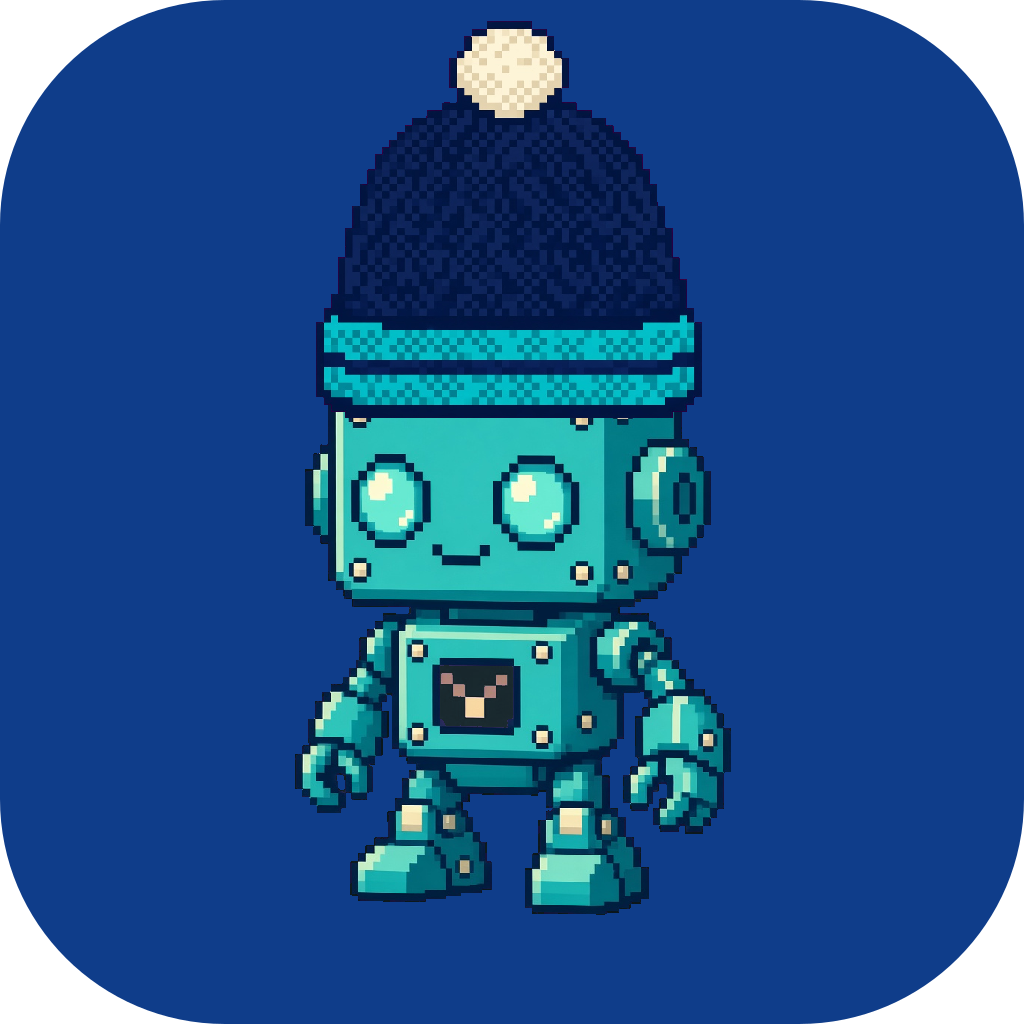
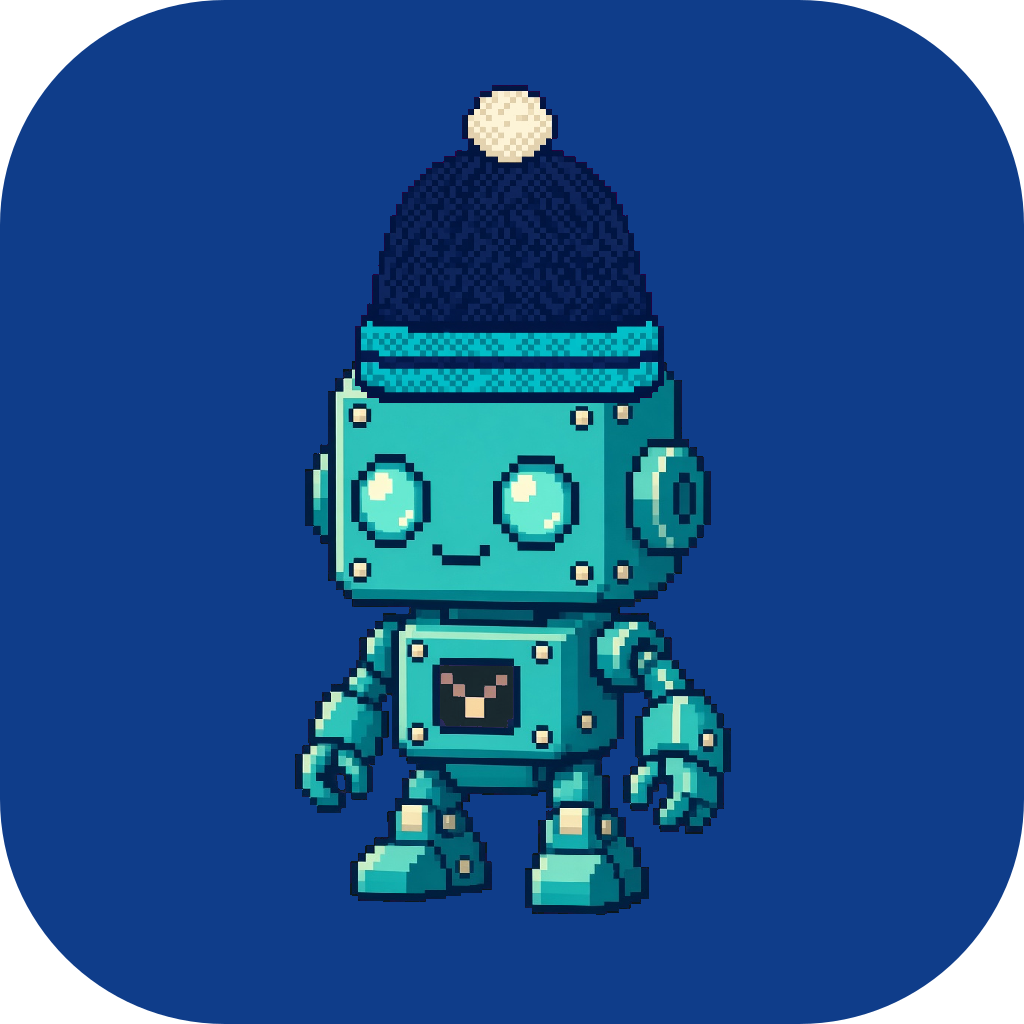
Per-character hat fit: rotate for the squid, scale down for the robot
Anchors accept rotate/scale/overlap overrides. Squid hats lean back 22deg
with the mantle (nearest-neighbour affine, hard edges); robot hats scale to
0.8 and sit deeper so they stay in proportion to its head.

Changed region(s): [[0.2812, 0.0, 0.6875, 0.4062]]

diff --git a/README.md b/README.md
@@ -152,7 +152,11 @@ the turquoise squid) change, so eyes, suckers and outlines stay put.
 | `beanie` | 40     | Navy knit beanie, turquoise brim stripe, cream pom. |
 
 Hats sit on each character's `hat` anchor (width ×1.1, sunk 28% of their
-height), so the same PNG fits the squid's mantle and the robot's head.
+height), so the same PNG fits the squid's mantle and the robot's head. An
+anchor can override the fit per character: `rotate` (degrees, clockwise; the
+squid's is 22 so hats lean back with the mantle), `scale` (the robot's is 0.8
+so hats stay in proportion to its boxy head) and `overlap`. Rotation samples
+nearest-neighbour, so edges stay hard.
 Characters are drawn at 72% of the canvas and nudged down 6% to leave headroom.
 
 ![squid in a beanie](examples/squid-beanie-on-ink-blue.png)
